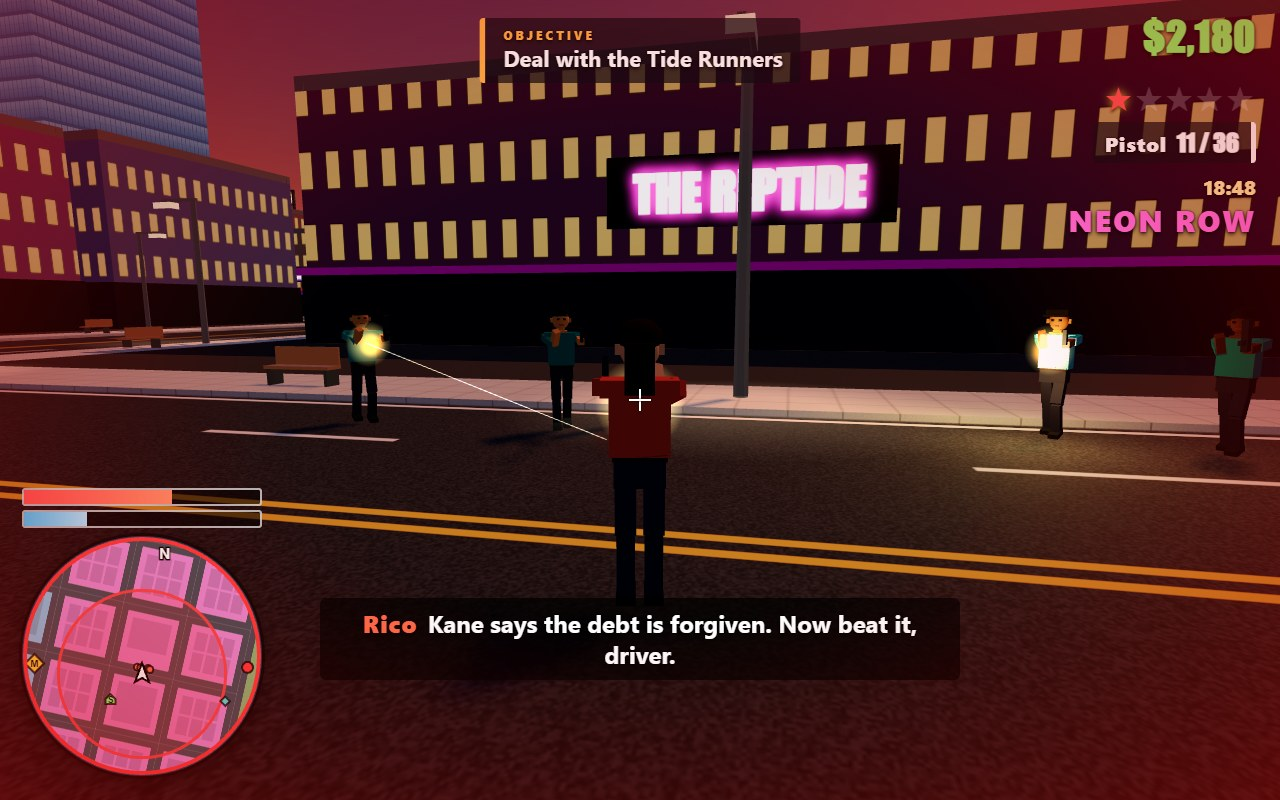
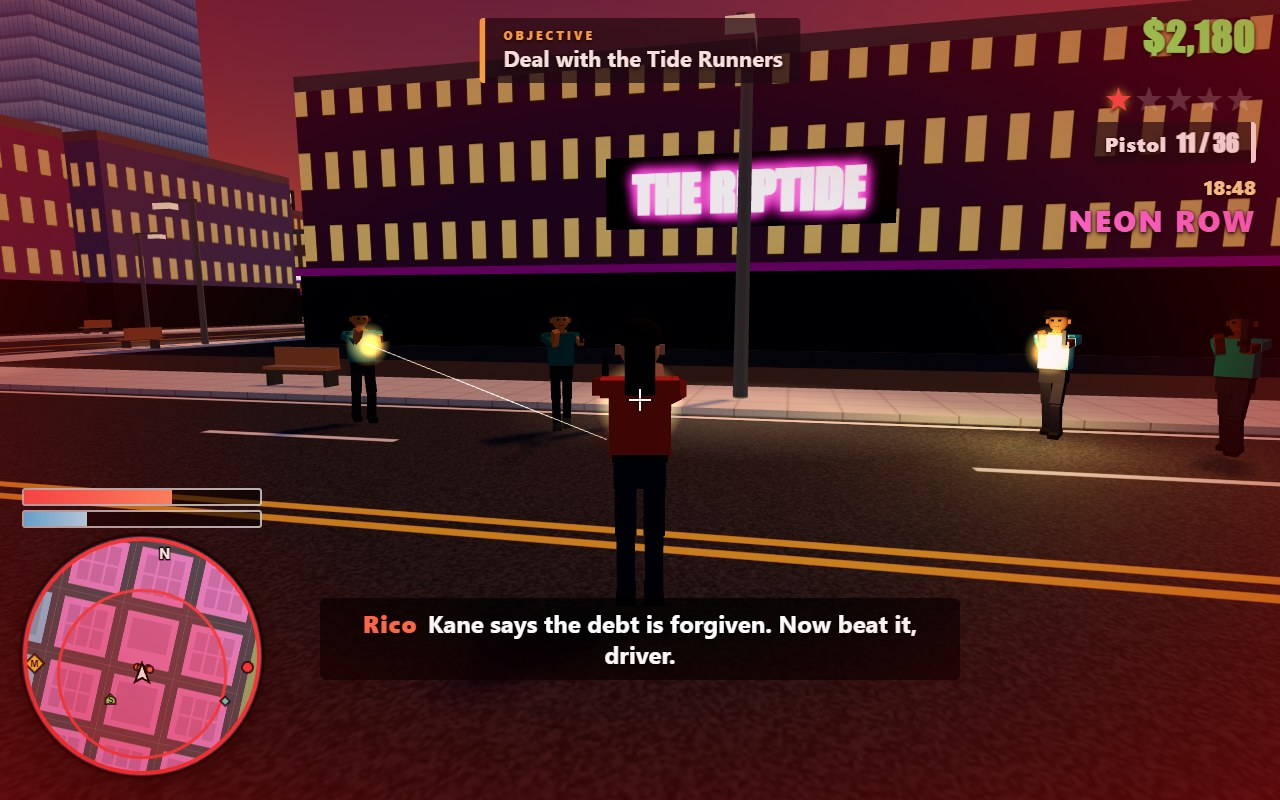
Crash damage: a harder hit inside the impact cooldown is charged, chase damage rebalanced
- applyImpact no longer lets a glancing hit (a clipped post) make the wall hit 0.35 s later free: a harder impact inside the cooldown is charged the difference. This is why repeated wall crashes never lit the car in the earlier playtest run.
- With every hard hit now counting, crash damage is rebalanced to keep the old feel: scale 1.0, cap 30, car-to-car hits capped at half with a smaller mass bonus and a 1.5 s pair cooldown, bullets dent cars at 15 % so a boxed-in chase under fire lasts.
- Playtest: the reversing-car check reverses faster before W; the crash loop requires the fire; 258 checks pass with no console errors.

diff --git a/game/src/vehicles/physics.js b/game/src/vehicles/physics.js
@@ -168,12 +168,27 @@ export function collideStatic(v, colliders, hits = []) {
   return hardest;
 }
 
-/** Damage from one impact at `closing` m/s, once per cooldown; scrapes under the dead zone are free. */
+/** Crash damage for a closing speed: nothing under the scrape dead zone, capped at crashMax. */
+function crashDamage(closing) {
+  return Math.min(DAMAGE.crashMax, Math.max(0, closing - DAMAGE.scrapeSpeed) * DAMAGE.crashScale);
+}
+
+/**
+ * Damage from one impact at `closing` m/s. One hit per cooldown, so a bounce along a wall is
+ * not charged twice; but a harder hit inside the cooldown (a post clipped on the way into a
+ * wall) is charged the difference, so the wall is never free. Scrapes under the dead zone cost nothing.
+ */
 export function applyImpact(v, closing, other) {
   if (closing < DAMAGE.scrapeSpeed) return 0;
-  if (v.impactTimer > 0) return 0;
+  const full = crashDamage(closing);
+  let dmg = full;
+  if (v.impactTimer > 0) {
+    const charged = v.impactCharged || 0;
+    if (full <= charged + 1) return 0;
+    dmg = full - charged;
+  }
   v.impactTimer = DAMAGE.impactCooldown;
-  const dmg = Math.min(DAMAGE.crashMax, (closing - DAMAGE.scrapeSpeed) * DAMAGE.crashScale);
+  v.impactCharged = full;
   damageVehicle(v, dmg, other || 'crash');
   v.lastImpact = { closing, dmg, at: performance.now() };
   return dmg;
@@ -240,10 +255,11 @@ export function collidePair(a, b, pairTimers, now) {
     const last = pairTimers.get(key) || -Infinity;
     if (closing >= DAMAGE.scrapeSpeed && now - last >= DAMAGE.pairCooldown) {
       pairTimers.set(key, now);
-      // Car-to-car hits hurt less than walls: bodywork gives, and a chase should last.
-      const dmg = Math.min(DAMAGE.crashMax * 0.6, (closing - DAMAGE.scrapeSpeed) * DAMAGE.crashScale * DAMAGE.carToCar);
-      damageVehicle(a, dmg * Math.min(1.3, mb / ma), b);
-      damageVehicle(b, dmg * Math.min(1.3, ma / mb), a);
+      // Car-to-car hits hurt less than walls: bodywork gives, and a chase should last. The
+      // heavier car hurts the lighter one a little more, within a cap.
+      const dmg = Math.min(DAMAGE.crashMax * 0.5, (closing - DAMAGE.scrapeSpeed) * DAMAGE.crashScale * DAMAGE.carToCar);
+      damageVehicle(a, dmg * Math.min(1.15, mb / ma), b);
+      damageVehicle(b, dmg * Math.min(1.15, ma / mb), a);
       a.lastImpact = { closing, dmg, at: now, other: b };
       b.lastImpact = { closing, dmg, at: now, other: a };
       return closing;

diff --git a/game/src/combat.js b/game/src/combat.js
@@ -66,7 +66,8 @@ export function createCombat(G) {
       } else if (hit.kind === 'vehicle') {
         const v = hit.target;
         G.effects.hitSparks(pt.x, pt.y, pt.z);
-        api.damageVehicle(v, damage * 0.35, shooter);
+        // Bullets dent bodywork; crashes are what wreck a car (a chase under fire should last).
+        api.damageVehicle(v, damage * DAMAGE.bulletToCar, shooter);
         if (shooter === G.player && v.driver && v.driver.kind === 'officer') G.wanted.crime('shootPolice', v.x, v.z);
         if (shooter === G.player && v.driver && v.driver.kind === 'ped') G.traffic.scareDriver(v);
       } else if (hit.kind === 'person') {

diff --git a/game/src/config.js b/game/src/config.js
@@ -85,10 +85,11 @@ export const DRIVING = {
 export const DAMAGE = {
   impactCooldown: 0.5,
   scrapeSpeed: 4.2,
-  crashScale: 1.2,
-  crashMax: 34,
-  carToCar: 0.5,
-  pairCooldown: 1.2,
+  crashScale: 1.0,
+  crashMax: 30,
+  carToCar: 0.4,
+  bulletToCar: 0.15,
+  pairCooldown: 1.5,
   driverHurtSpeed: 13,
   driverHurt: 4,
   runOverSpeed: 2.5,
